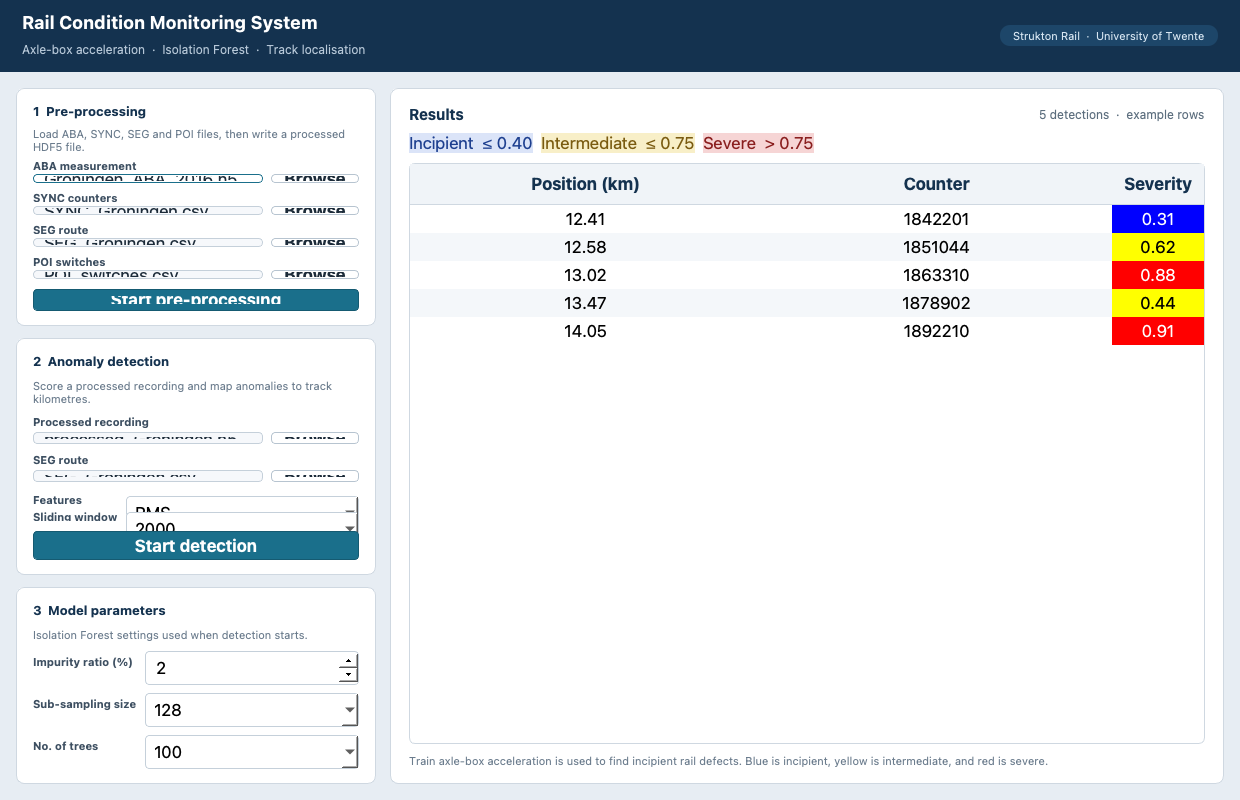
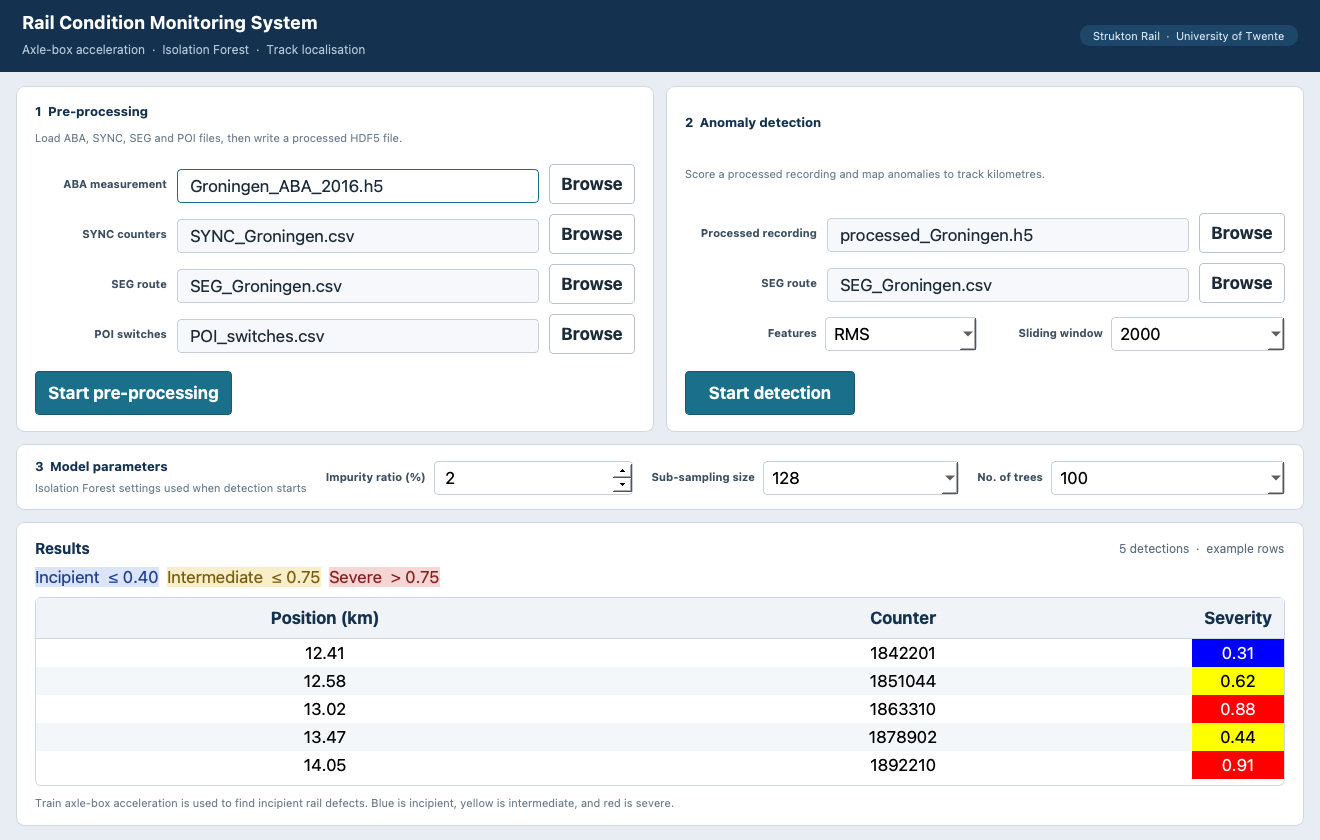
Give the workflow full width so file fields no longer overlap.

diff --git a/ui/RailCMS.py b/ui/RailCMS.py
@@ -9,7 +9,7 @@ if str(_REPO_ROOT) not in sys.path:
 from PyQt5.QtGui import QColor, QFont, QIcon
 from PyQt5.QtCore import Qt
 from PyQt5.QtWidgets import (
-    QApplication, QComboBox, QDialog, QFileDialog, QFormLayout, QFrame,
+    QApplication, QComboBox, QDialog, QFileDialog, QFrame,
     QHBoxLayout, QHeaderView, QLabel, QLineEdit, QMessageBox, QPushButton,
     QSizePolicy, QSpinBox, QTableWidget, QTableWidgetItem, QVBoxLayout,
     QWidget,
@@ -70,7 +70,8 @@ QLineEdit {
     background: #f6f8fb;
     border: 1px solid #c5d0da;
     border-radius: 4px;
-    padding: 6px 8px;
+    padding: 2px 10px;
+    min-height: 28px;
     color: #1c2b39;
     selection-background-color: #1a6f8b;
 }
@@ -82,8 +83,9 @@ QComboBox, QSpinBox {
     background: #ffffff;
     border: 1px solid #c5d0da;
     border-radius: 4px;
-    padding: 5px 8px;
-    min-height: 22px;
+    padding: 2px 8px;
+    min-height: 28px;
+    min-width: 100px;
 }
 QComboBox:focus, QSpinBox:focus {
     border: 1px solid #1a6f8b;
@@ -92,7 +94,9 @@ QPushButton {
     background: #ffffff;
     border: 1px solid #b7c4d0;
     border-radius: 4px;
-    padding: 6px 12px;
+    padding: 4px 12px;
+    min-height: 28px;
+    max-height: 32px;
     color: #1c2b39;
     font-weight: 600;
 }
@@ -102,6 +106,10 @@ QPushButton:hover {
 }
 QPushButton:pressed {
     background: #e4eef3;
+}
+QPushButton#Primary, QPushButton#Save {
+    min-height: 34px;
+    max-height: 36px;
 }
 QPushButton#Primary {
     background: #1a6f8b;
@@ -194,9 +202,10 @@ def _error(title, text, informative):
 def _card(title, hint=None):
     frame = QFrame()
     frame.setObjectName("Card")
+    frame.setSizePolicy(QSizePolicy.Expanding, QSizePolicy.Minimum)
     layout = QVBoxLayout(frame)
-    layout.setContentsMargins(16, 14, 16, 14)
-    layout.setSpacing(10)
+    layout.setContentsMargins(18, 16, 18, 16)
+    layout.setSpacing(12)
     heading = QLabel(title)
     heading.setObjectName("CardTitle")
     layout.addWidget(heading)
@@ -212,8 +221,8 @@ class WidgetGallery(QDialog):
     def __init__(self, parent=None):
         super(WidgetGallery, self).__init__(parent)
         self.setObjectName("RailCMS")
-        self.resize(1240, 800)
-        self.setMinimumSize(980, 680)
+        self.resize(1320, 840)
+        self.setMinimumSize(1180, 800)
         self.fileName = None
         self.ppfile = None
         self.abafile = None
@@ -238,11 +247,12 @@ class WidgetGallery(QDialog):
         root.addWidget(self._build_header())
 
         body = QWidget()
-        body_layout = QHBoxLayout(body)
-        body_layout.setContentsMargins(16, 16, 16, 16)
-        body_layout.setSpacing(14)
-        body_layout.addWidget(self._build_sidebar(), 0)
-        body_layout.addWidget(self._build_results(), 1)
+        body_layout = QVBoxLayout(body)
+        body_layout.setContentsMargins(16, 14, 16, 14)
+        body_layout.setSpacing(12)
+        body_layout.addWidget(self._build_workflow(), 0)
+        body_layout.addWidget(self._build_results(), 0)
+        body_layout.addStretch(1)
         root.addWidget(body, 1)
 
         self.setWindowTitle("RailCMS — Rail Condition Monitoring")
@@ -277,10 +287,10 @@ class WidgetGallery(QDialog):
         layout.addWidget(badge, 0, Qt.AlignRight | Qt.AlignVCenter)
         return header
 
-    def _build_sidebar(self):
-        sidebar = QWidget()
-        sidebar.setFixedWidth(360)
-        layout = QVBoxLayout(sidebar)
+    def _build_workflow(self):
+        panel = QWidget()
+        panel.setSizePolicy(QSizePolicy.Preferred, QSizePolicy.Minimum)
+        layout = QVBoxLayout(panel)
         layout.setContentsMargins(0, 0, 0, 0)
         layout.setSpacing(12)
 
@@ -288,15 +298,18 @@ class WidgetGallery(QDialog):
         self.createTopRightGroupBox()
         self.createBottomRightGroupBox()
 
-        layout.addWidget(self.topLeftGroupBox)
-        layout.addWidget(self.topRightGroupBox)
+        steps = QHBoxLayout()
+        steps.setSpacing(12)
+        steps.addWidget(self.topLeftGroupBox, 1)
+        steps.addWidget(self.topRightGroupBox, 1)
+        layout.addLayout(steps)
         layout.addWidget(self.bottomRightGroupBox)
-        layout.addStretch(1)
-        return sidebar
+        return panel
 
     def _build_results(self):
         panel = QFrame()
         panel.setObjectName("Card")
+        panel.setSizePolicy(QSizePolicy.Expanding, QSizePolicy.Minimum)
         layout = QVBoxLayout(panel)
         layout.setContentsMargins(18, 16, 18, 16)
         layout.setSpacing(10)
@@ -326,7 +339,7 @@ class WidgetGallery(QDialog):
         layout.addLayout(legend)
 
         self.createBottomLeftTabWidget(self.output)
-        layout.addWidget(self.tableWidget, 1)
+        layout.addWidget(self.tableWidget, 0)
 
         note = QLabel(
             "Train axle-box acceleration is used to find incipient rail defects. "
@@ -339,33 +352,54 @@ class WidgetGallery(QDialog):
 
     def _file_field(self, caption, placeholder, on_browse):
         box = QWidget()
-        col = QVBoxLayout(box)
-        col.setContentsMargins(0, 0, 0, 0)
-        col.setSpacing(4)
+        box.setFixedHeight(40)
+        row = QHBoxLayout(box)
+        row.setContentsMargins(0, 0, 0, 0)
+        row.setSpacing(10)
         label = QLabel(caption)
         label.setObjectName("FieldLabel")
+        label.setFixedWidth(132)
+        label.setAlignment(Qt.AlignRight | Qt.AlignVCenter)
         field = QLineEdit()
         field.setReadOnly(True)
         field.setPlaceholderText(placeholder)
+        field.setFixedHeight(30)
+        field.setClearButtonEnabled(False)
         browse = QPushButton("Browse")
+        browse.setFixedSize(86, 30)
         browse.clicked.connect(on_browse)
-        row = QHBoxLayout()
-        row.setSpacing(8)
+        row.addWidget(label, 0)
         row.addWidget(field, 1)
-        row.addWidget(browse)
-        col.addWidget(label)
-        col.addLayout(row)
+        row.addWidget(browse, 0)
         return box, field
+
+    def _option_field(self, caption, widget):
+        box = QWidget()
+        box.setFixedHeight(40)
+        row = QHBoxLayout(box)
+        row.setContentsMargins(0, 0, 0, 0)
+        row.setSpacing(8)
+        label = QLabel(caption)
+        label.setObjectName("FieldLabel")
+        label.setAlignment(Qt.AlignRight | Qt.AlignVCenter)
+        widget.setFixedHeight(32)
+        row.addWidget(label, 0)
+        row.addWidget(widget, 1)
+        return box
 
     def _primary_row(self, start_button, save_button):
         row = QHBoxLayout()
-        row.setSpacing(8)
+        row.setContentsMargins(0, 6, 0, 0)
+        row.setSpacing(10)
         start_button.setObjectName("Primary")
-        start_button.setSizePolicy(QSizePolicy.Expanding, QSizePolicy.Fixed)
+        start_button.setFixedHeight(34)
+        start_button.setMinimumWidth(170)
         save_button.setObjectName("Save")
-        save_button.setSizePolicy(QSizePolicy.Expanding, QSizePolicy.Fixed)
-        row.addWidget(start_button)
-        row.addWidget(save_button)
+        save_button.setFixedHeight(34)
+        save_button.setMinimumWidth(170)
+        row.addWidget(start_button, 0)
+        row.addWidget(save_button, 0)
+        row.addStretch(1)
         return row
 
     def createTopLeftGroupBox(self):
@@ -373,6 +407,7 @@ class WidgetGallery(QDialog):
             "1  Pre-processing",
             "Load ABA, SYNC, SEG and POI files, then write a processed HDF5 file.",
         )
+        self.topLeftGroupBox.setMinimumHeight(340)
 
         aba_row, self.abaEdit = self._file_field("ABA measurement", "ABA file (.h5)", self.browse_aba)
         sync_row, self.syncEdit = self._file_field("SYNC counters", "SYNC file (.csv)", self.browse_sync)
@@ -388,10 +423,14 @@ class WidgetGallery(QDialog):
         self.savefileButton.setToolTip("Click to save the results")
         self.savefileButton.setVisible(False)
 
-        layout.addWidget(aba_row)
-        layout.addWidget(sync_row)
-        layout.addWidget(seg_row)
-        layout.addWidget(poi_row)
+        files = QVBoxLayout()
+        files.setContentsMargins(0, 8, 0, 0)
+        files.setSpacing(10)
+        files.addWidget(aba_row)
+        files.addWidget(sync_row)
+        files.addWidget(seg_row)
+        files.addWidget(poi_row)
+        layout.addLayout(files)
         layout.addLayout(self._primary_row(self.pprocessButton, self.savefileButton))
 
     def createTopRightGroupBox(self):
@@ -399,6 +438,7 @@ class WidgetGallery(QDialog):
             "2  Anomaly detection",
             "Score a processed recording and map anomalies to track kilometres.",
         )
+        self.topRightGroupBox.setMinimumHeight(340)
 
         processed_row, self.processedEdit = self._file_field(
             "Processed recording", "Pre-processed file (.h5)", self.browse_file
@@ -417,17 +457,6 @@ class WidgetGallery(QDialog):
         )
         self.swinqbox.currentIndexChanged.connect(self.selection_change)
 
-        options = QFormLayout()
-        options.setContentsMargins(0, 4, 0, 0)
-        options.setSpacing(8)
-        options.setLabelAlignment(Qt.AlignLeft | Qt.AlignVCenter)
-        feat_label = QLabel("Features")
-        feat_label.setObjectName("FieldLabel")
-        win_label = QLabel("Sliding window")
-        win_label.setObjectName("FieldLabel")
-        options.addRow(feat_label, self.fqbox)
-        options.addRow(win_label, self.swinqbox)
-
         self.detectanomButton = QPushButton("Start detection")
         self.detectanomButton.clicked.connect(self.detect_anomalies)
         self.detectanomButton.setToolTip("Click to start anomaly detection")
@@ -437,9 +466,21 @@ class WidgetGallery(QDialog):
         self.saveButton.setToolTip("Click to save the results")
         self.saveButton.setVisible(False)
 
-        layout.addWidget(processed_row)
-        layout.addWidget(seg_row)
-        layout.addLayout(options)
+        files = QVBoxLayout()
+        files.setContentsMargins(0, 8, 0, 0)
+        files.setSpacing(10)
+        files.addWidget(processed_row)
+        files.addWidget(seg_row)
+        options = QHBoxLayout()
+        options.setSpacing(16)
+        feat = self._option_field("Features", self.fqbox)
+        feat.layout().itemAt(0).widget().setFixedWidth(132)
+        win = self._option_field("Sliding window", self.swinqbox)
+        win.layout().itemAt(0).widget().setFixedWidth(110)
+        options.addWidget(feat, 1)
+        options.addWidget(win, 1)
+        files.addLayout(options)
+        layout.addLayout(files)
         layout.addLayout(self._primary_row(self.detectanomButton, self.saveButton))
 
     def createBottomLeftTabWidget(self, output):
@@ -455,12 +496,25 @@ class WidgetGallery(QDialog):
         header.setSectionResizeMode(1, QHeaderView.Stretch)
         header.setSectionResizeMode(2, QHeaderView.ResizeToContents)
         self.tableWidget.verticalHeader().setDefaultSectionSize(28)
+        self._sync_table_height(6)
 
     def createBottomRightGroupBox(self):
-        self.bottomRightGroupBox, layout = _card(
-            "3  Model parameters",
-            "Isolation Forest settings used when detection starts.",
-        )
+        self.bottomRightGroupBox = QFrame()
+        self.bottomRightGroupBox.setObjectName("Card")
+        self.bottomRightGroupBox.setSizePolicy(QSizePolicy.Expanding, QSizePolicy.Minimum)
+        layout = QHBoxLayout(self.bottomRightGroupBox)
+        layout.setContentsMargins(18, 12, 18, 12)
+        layout.setSpacing(18)
+
+        title = QLabel("3  Model parameters")
+        title.setObjectName("CardTitle")
+        hint = QLabel("Isolation Forest settings used when detection starts")
+        hint.setObjectName("CardHint")
+        names = QVBoxLayout()
+        names.setSpacing(2)
+        names.addWidget(title)
+        names.addWidget(hint)
+        layout.addLayout(names, 0)
 
         self.tbox = QComboBox()
         self.tbox.addItems(["25", "50", "100", "150", "200", "250"])
@@ -476,18 +530,12 @@ class WidgetGallery(QDialog):
         self.stbox.addItems(["16", "32", "64", "128", "256", "512"])
         self.stbox.currentIndexChanged.connect(self.selection_change)
 
-        form = QFormLayout()
-        form.setContentsMargins(0, 0, 0, 0)
-        form.setSpacing(8)
         for text, widget in (
             ("Impurity ratio (%)", self.ispinBox),
             ("Sub-sampling size", self.stbox),
             ("No. of trees", self.tbox),
         ):
-            label = QLabel(text)
-            label.setObjectName("FieldLabel")
-            form.addRow(label, widget)
-        layout.addLayout(form)
+            layout.addWidget(self._option_field(text, widget), 1)
 
     def _fill_results_table(self, rows):
         n_rows = min(75, len(rows))
@@ -508,10 +556,17 @@ class WidgetGallery(QDialog):
                     else:
                         item.setBackground(QColor(Qt.red))
                         item.setForeground(QColor(Qt.white))
+        self._sync_table_height(n_rows)
         if n_rows == 1:
             self.resultsMeta.setText("1 detection")
         else:
             self.resultsMeta.setText("%d detections" % n_rows)
+
+    def _sync_table_height(self, n_rows):
+        header = self.tableWidget.horizontalHeader().sizeHint().height()
+        row_h = self.tableWidget.verticalHeader().defaultSectionSize()
+        visible = max(n_rows, 5)
+        self.tableWidget.setFixedHeight(header + visible * row_h + 8)
 
     # ///////////////////// System functions /////////////////////////
 
@@ -666,6 +721,7 @@ class WidgetGallery(QDialog):
         self.saveButton.setVisible(False)
         self.tableWidget.clearContents()
         self.tableWidget.setRowCount(0)
+        self._sync_table_height(0)
         self.resultsMeta.setText("No detections yet")
 
     def save_pdata(self):

diff --git a/README.md b/README.md
@@ -24,7 +24,7 @@ Axle-box accelerometer (ABA) recordings and GPS/route files are used to find and
 <img src="res/railcms_ui.png" width="900" alt="Rail Condition Monitoring System UI" />
 </p>
 
-The desktop UI (`python RailCMS.py`) is a three-step workspace: pre-process ABA / SYNC / SEG / POI files, run Isolation Forest detection, then review kilometre position, counter, and severity (blue / yellow / red). The rows in the screenshot are example detections so the Results table is visible.
+The desktop UI (`python RailCMS.py`) keeps the workflow on top — pre-processing and detection side by side, model settings in one row — and lists kilometre position, counter, and severity (blue / yellow / red) underneath. The rows in the screenshot are example detections so the Results table is visible.
 
 <p align="center">
 <img src="res/cms.jpg" width="750" alt="Rail condition monitoring overview" />
